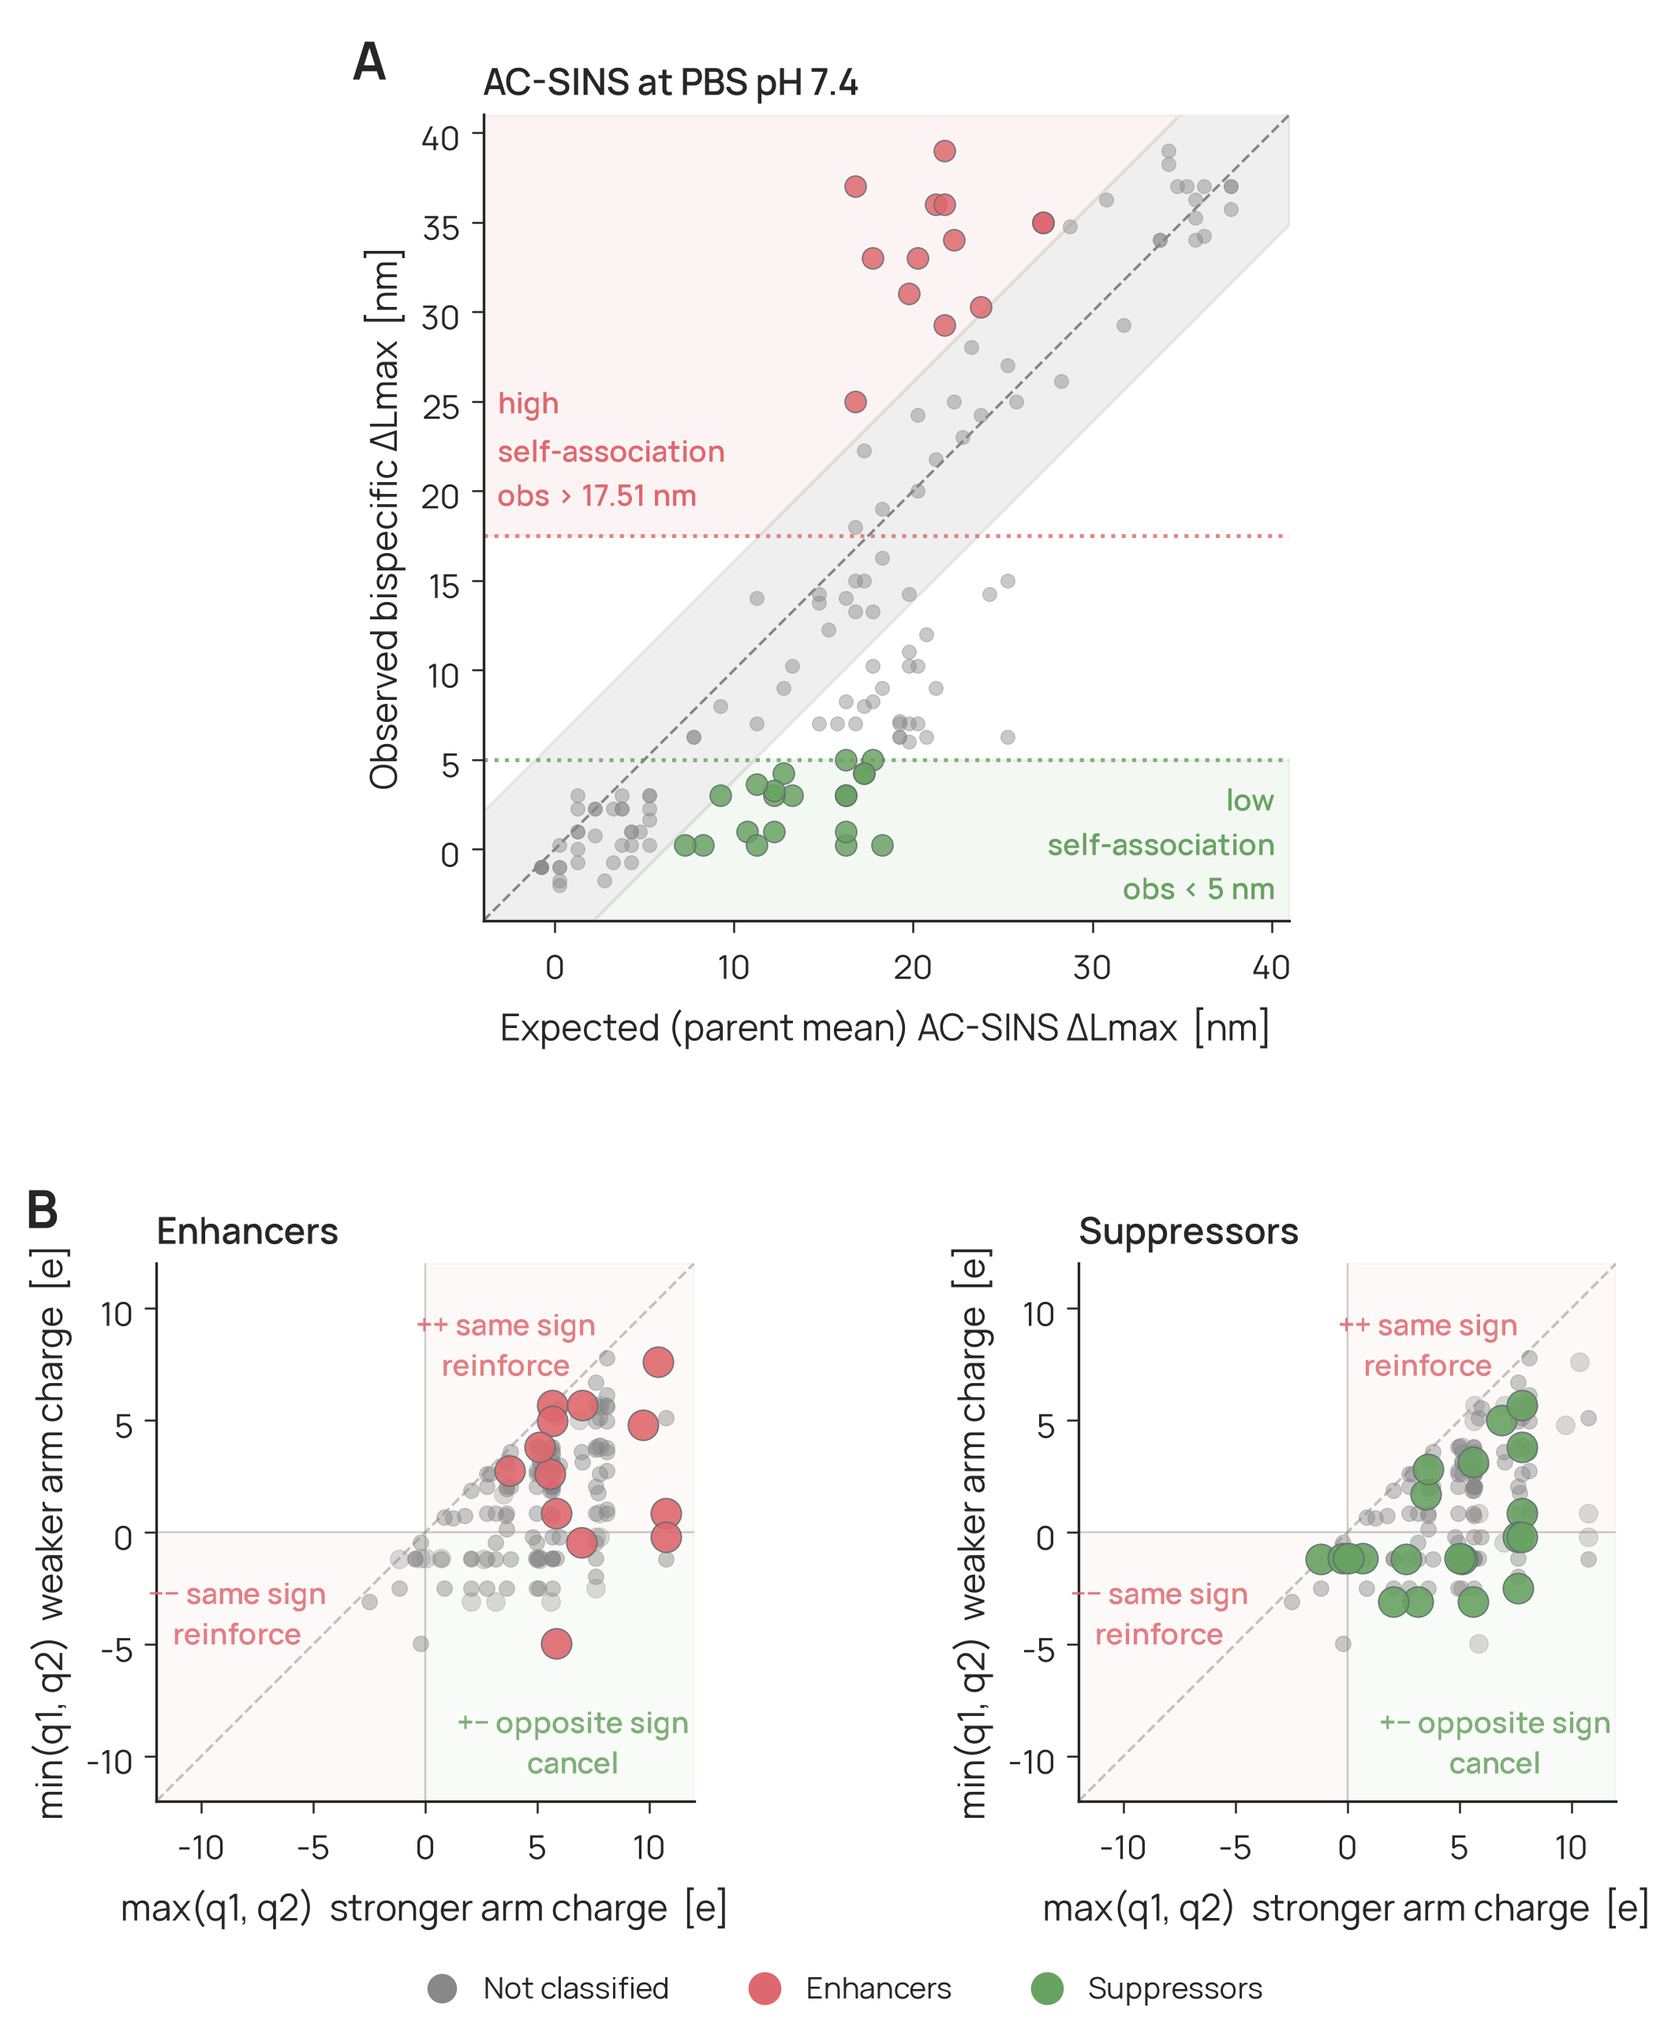
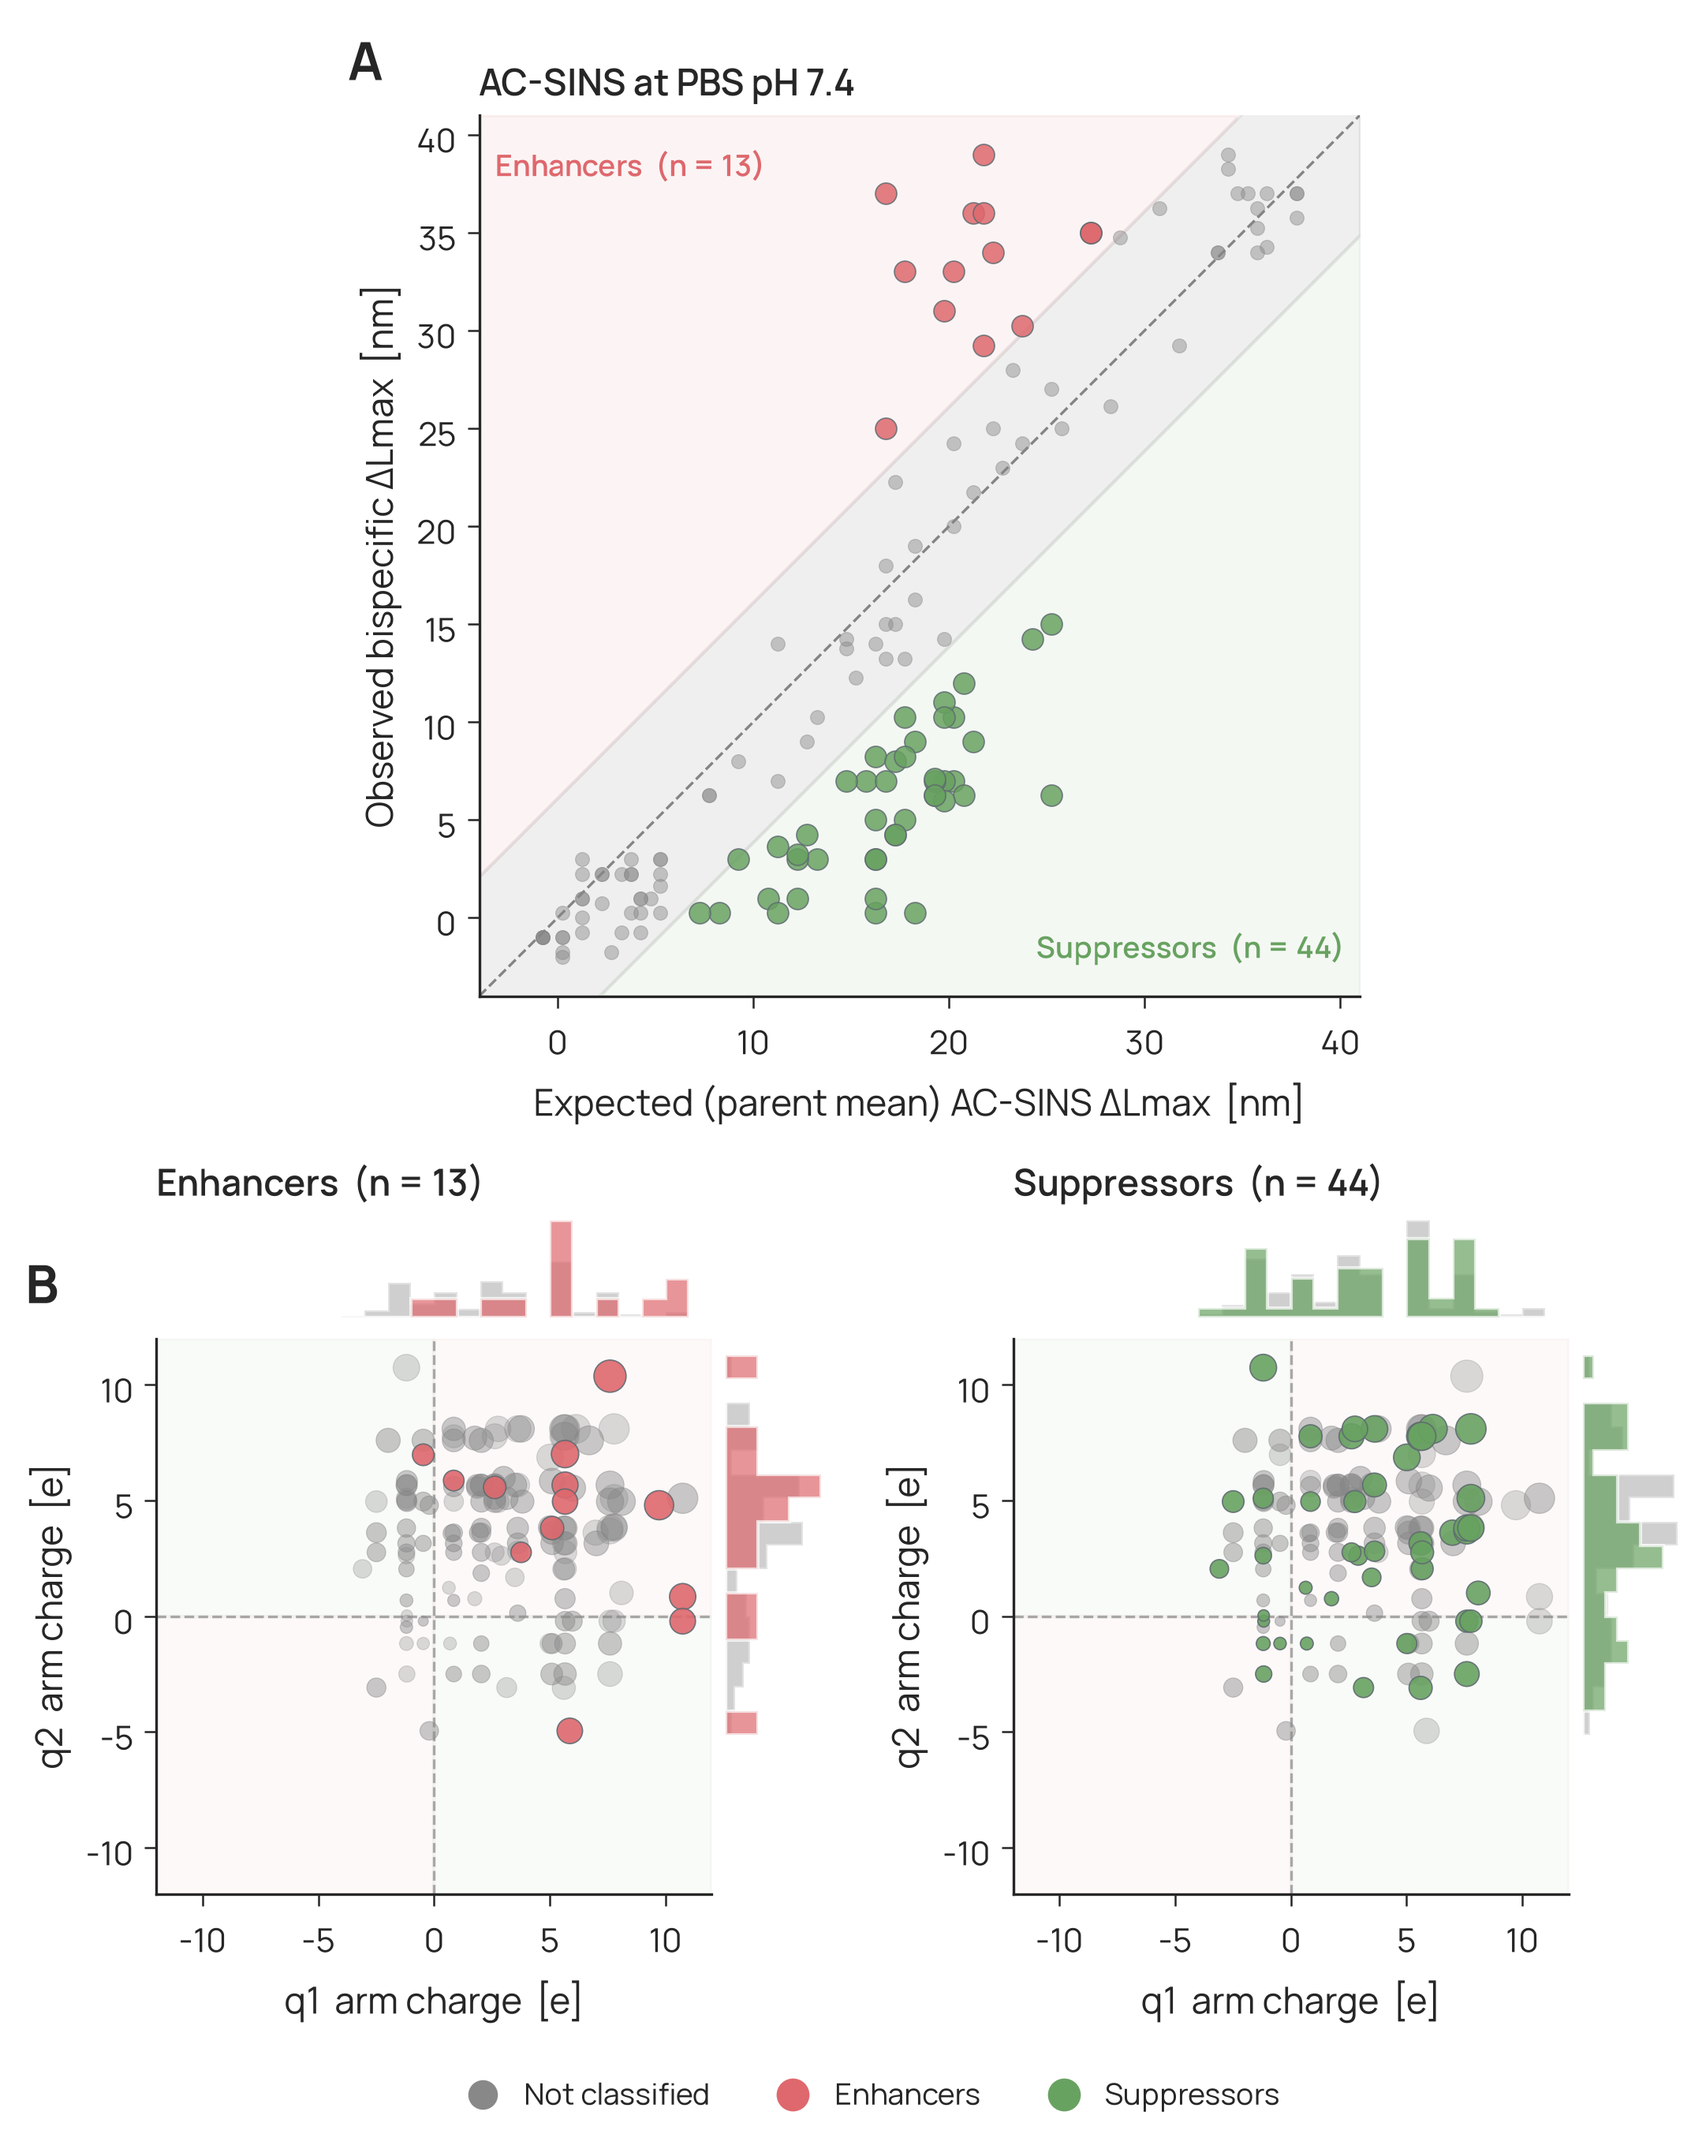
Update manuscript Figures 4 and 6

diff --git a/figures/main/figure_06.py b/figures/main/figure_06.py
@@ -113,7 +113,7 @@ def main():
     _n = len(bars_v2)
     _x = np.arange(_n)
     _w = 0.24
-    _c_par = DATAPOINTS_COLORS['navy']
+    _c_par = DATAPOINTS_COLORS['gray']
     _c_mod = DATAPOINTS_COLORS['blue']
     _c_is = DATAPOINTS_COLORS['pink']
     _TICK = {'AC-SINS PBS pH 7.4': 'AC-SINS PBS', 'AC-SINS His/NaCl pH 6.0': 'AC-SINS His/NaCl', 'AC-SINS His/Arg pH 6.0': 'AC-SINS His/Arg'}
@@ -252,7 +252,7 @@ def main():
     _fig6.savefig(_o6, dpi=300, bbox_inches='tight')
     print(f'wrote {_o6.relative_to(paths.REPO_ROOT)}')
     _fig6
-    _src = paths.FIGURES / 'main/figure_5_loo.png'
+    _src = paths.FIGURES / 'main/figure_5_version_2.png'
     _dst = paths.FIGURES / 'main/figure_06.png'
     _dst.parent.mkdir(parents=True, exist_ok=True)
     copy2(_src, _dst)

diff --git a/figures/main/figure_04.py b/figures/main/figure_04.py
@@ -322,7 +322,7 @@ def main():
     fig_c.savefig(_o, dpi=300, bbox_inches='tight')
     print(f'wrote {_o.relative_to(paths.REPO_ROOT)}')
     fig_c
-    _src = paths.FIGURES / 'main/figure_3.png'
+    _src = paths.FIGURES / 'main/figure_3_version_2.png'
     _dst = paths.FIGURES / 'main/figure_04.png'
     _dst.parent.mkdir(parents=True, exist_ok=True)
     copy2(_src, _dst)
